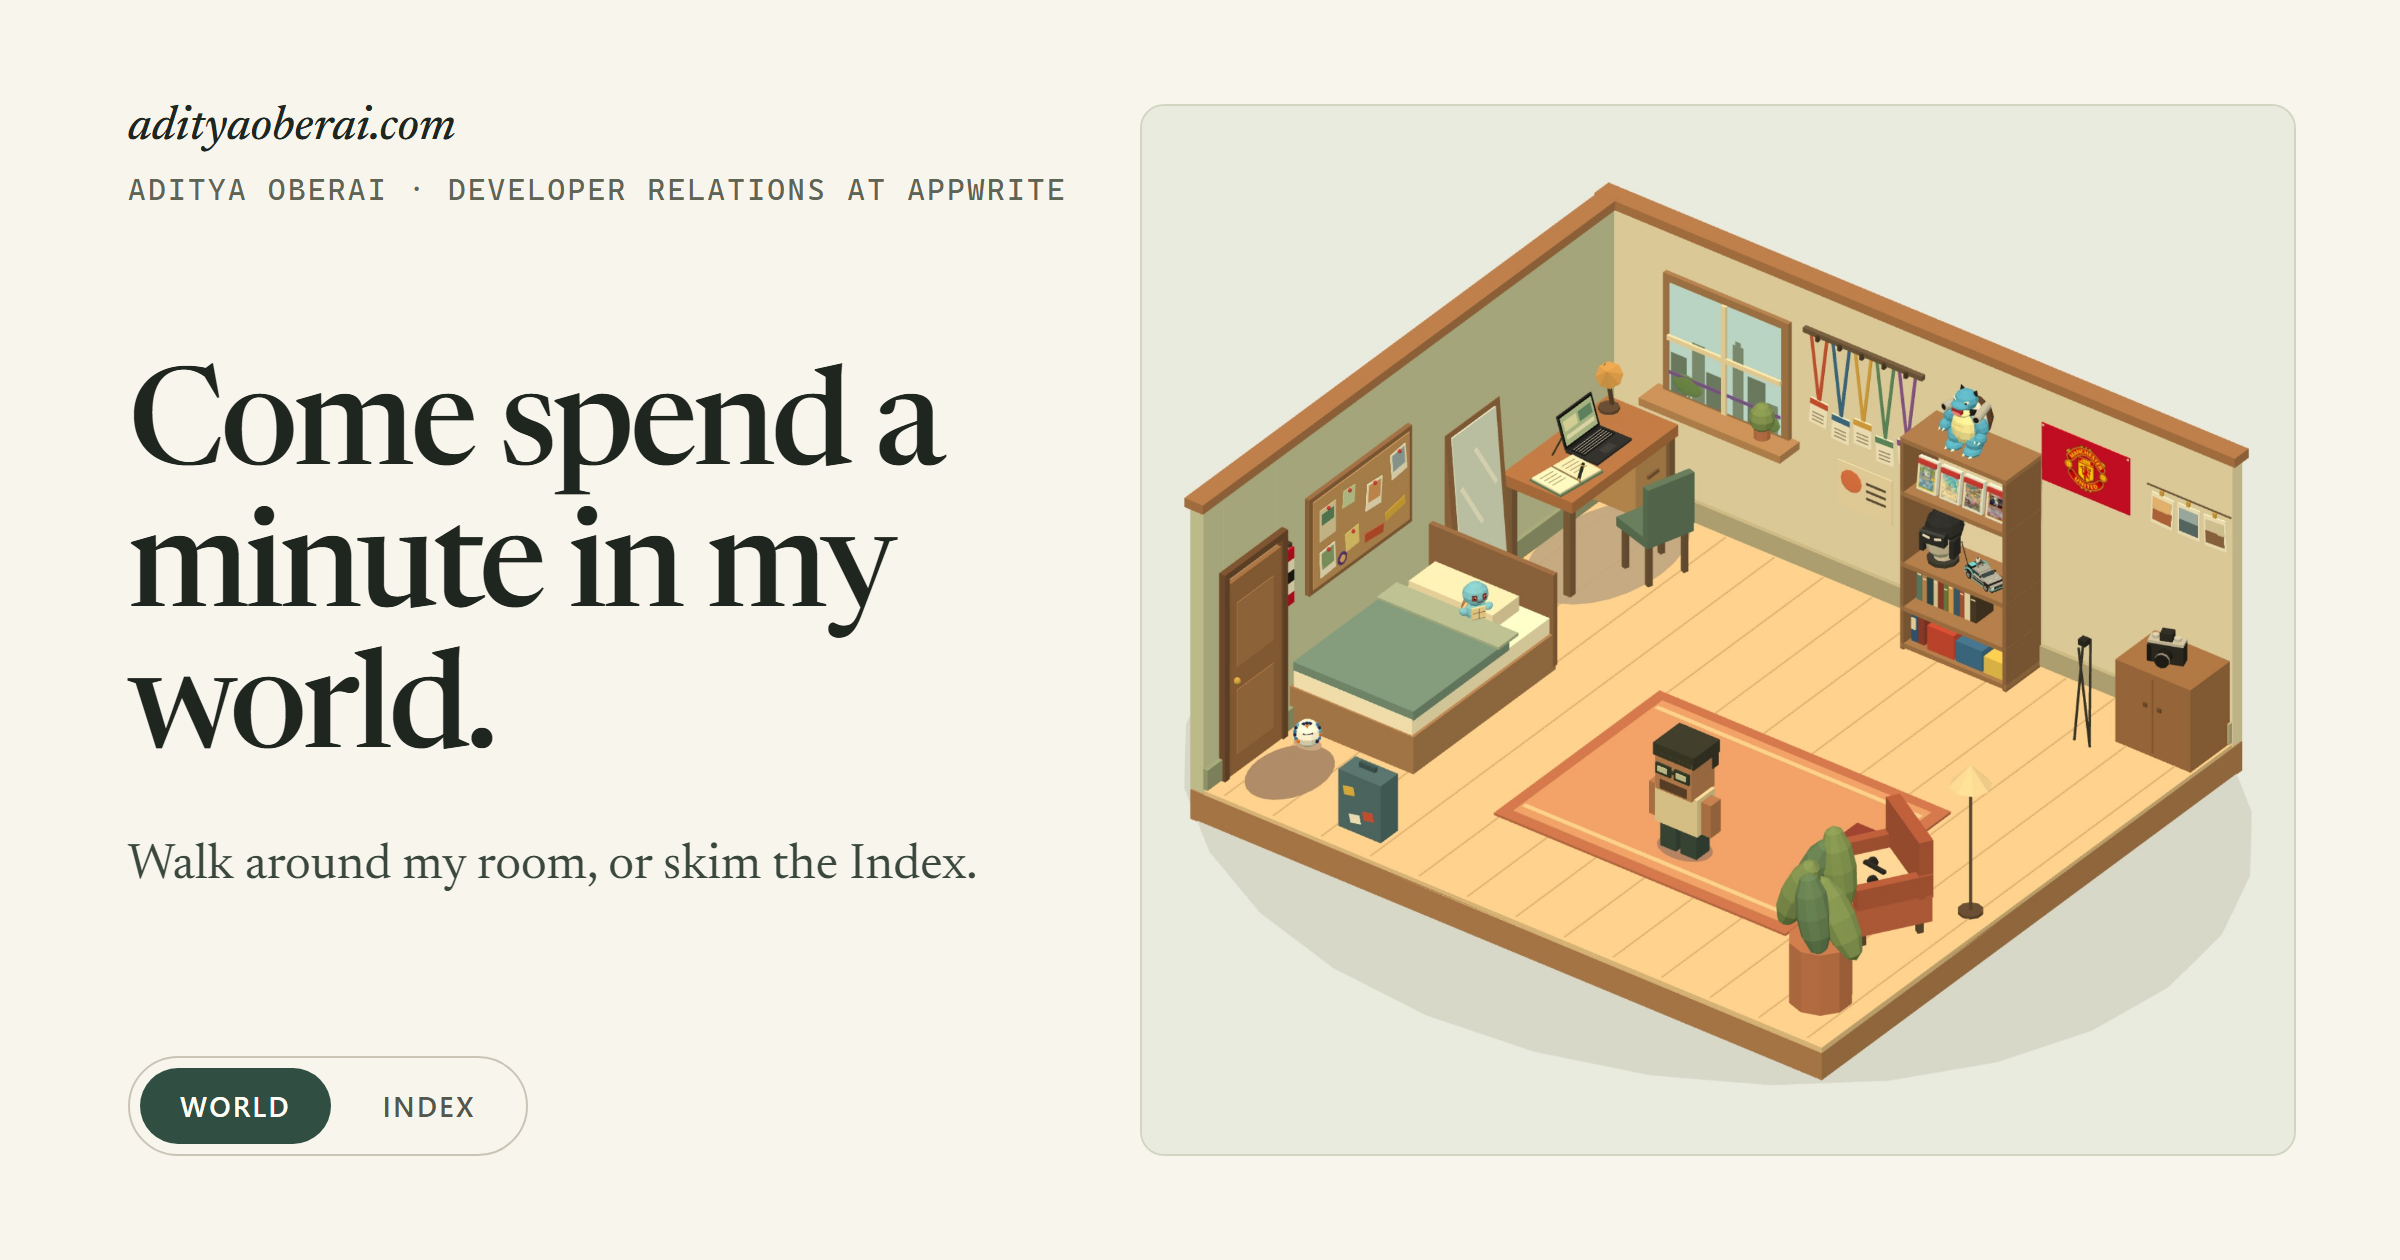
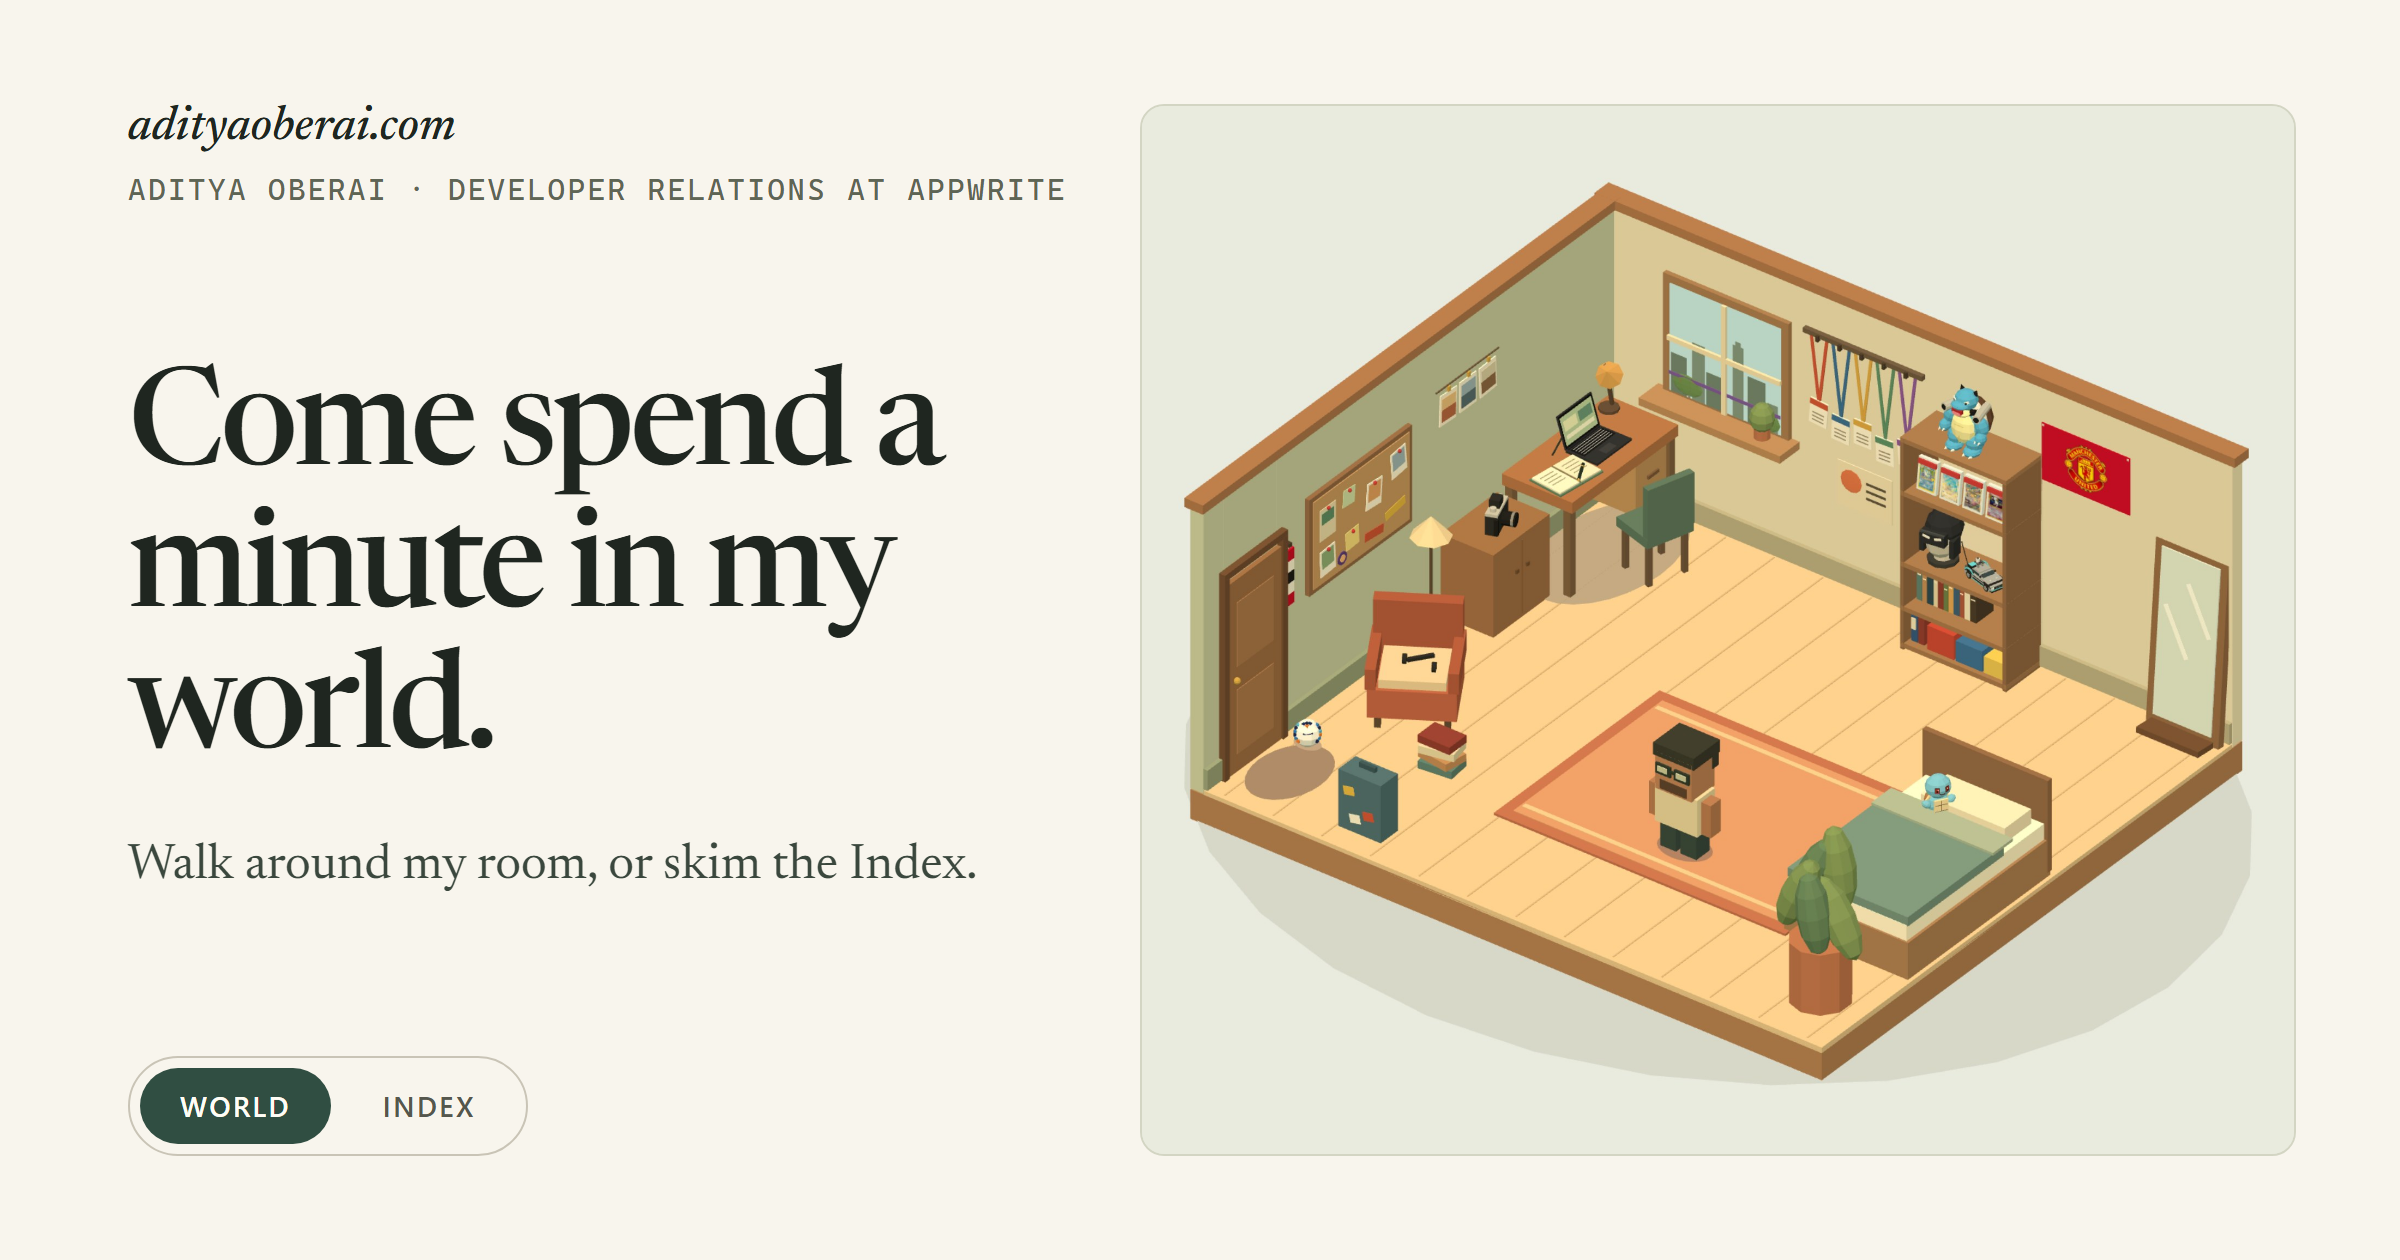
V3: swap the bed and reading corner, the mirror and camera cabinet
The bed now runs along the room's right edge and the reading corner sits
under the corkboard; the camera cabinet and its prints move onto the left
wall beside the desk and the mirror leans in the back-right corner. The
tripod is gone.

Changed region(s): [[0.5312, 0.2786, 0.6562, 0.619], [0.75, 0.5571, 0.875, 0.7738], [0.8438, 0.4024, 0.9375, 0.619]]

diff --git a/src/lib/world/build.ts b/src/lib/world/build.ts
@@ -14,7 +14,7 @@ import {
 	type BufferGeometry
 } from 'three';
 import { mergeGeometries } from 'three/examples/jsm/utils/BufferGeometryUtils.js';
-import { DESK, FLAG, FOOTPRINTS, LAPTOP, SHELF, type Vec3 } from './layout';
+import { BED, CABINET, DESK, FLAG, FOOTPRINTS, LAPTOP, MIRROR, SHELF, type Vec3 } from './layout';
 
 type Shape = 'box' | 'cylinder' | 'sphere' | 'disc' | 'cone' | 'plane';
 
@@ -462,7 +462,15 @@ export function buildDesk(lit: Batch, unlit: Batch) {
 	});
 }
 
+// The photography corner (CABINET in layout.ts). Drawn as it stood against the
+// back wall, centred on (3.05, -2.7), then moved as one piece.
 export function buildPhotography(lit: Batch) {
+	lit.group([CABINET.x, 0, CABINET.z], CABINET.angle, () =>
+		lit.group([-3.05, 0, 2.7], 0, () => photographyCorner(lit))
+	);
+}
+
+function photographyCorner(lit: Batch) {
 	lit.box('#9c704c', [3.05, 0.45, -2.7], [0.85, 0.9, 0.6]);
 	lit.box('#86603f', [3.05, 0.45, -2.395], [0.012, 0.8, 0.01]);
 	for (const x of [2.97, 3.13]) lit.box('#6b4f36', [x, 0.55, -2.39], [0.04, 0.04, 0.02]);
@@ -589,14 +597,16 @@ export function buildCollection(lit: Batch, faces: Batch, cards: number) {
 }
 
 export function buildBedroom(lit: Batch) {
-	lit.box('#8f6a4c', [-2.8, 0.6, -0.23], [1.42, 1, 0.06]);
-	lit.box('#a9805c', [-2.8, 0.25, 0.825], [1.4, 0.4, 2.15]);
-	lit.box('#faf2da', [-2.8, 0.53, 0.84], [1.34, 0.18, 2.08]);
-	lit.box('#749287', [-2.8, 0.66, 1.15], [1.36, 0.1, 1.45]);
-	lit.box('#a7b6a1', [-2.8, 0.72, 0.45], [1.38, 0.03, 0.3]);
-	lit.box('#f0e3c7', [-2.9, 0.7, 0.07], [0.95, 0.16, 0.4]);
-	// Squirtle plush by the pillow.
-	lit.group([-2.62, 0.62, 0.28], Math.PI / 3, () => squirtle(lit), 0.72);
+	// The bed along the right edge of the room (BED in layout.ts).
+	const x = BED.x;
+	lit.box('#8f6a4c', [x, 0.6, -0.23], [1.42, 1, 0.06]);
+	lit.box('#a9805c', [x, 0.25, 0.825], [1.4, 0.4, 2.15]);
+	lit.box('#faf2da', [x, 0.53, 0.84], [1.34, 0.18, 2.08]);
+	lit.box('#749287', [x, 0.66, 1.15], [1.36, 0.1, 1.45]);
+	lit.box('#a7b6a1', [x, 0.72, 0.45], [1.38, 0.03, 0.3]);
+	lit.box('#f0e3c7', [x + 0.1, 0.7, 0.07], [0.95, 0.16, 0.4]);
+	// Squirtle plush by the pillow, facing the room.
+	lit.group([x - 0.18, 0.62, 0.28], Math.PI / 3, () => squirtle(lit), 0.72);
 
 	// Front-right plant.
 	lit.cylinder('#b87554', [3.0, 0.33, 2.55], 0.3, 0.66);
@@ -712,7 +722,8 @@ export function buildLanyards(lit: Batch) {
 }
 
 export function buildMirror(lit: Batch) {
-	lit.group([-3.38, 0, -0.85], [0, 0, 0.08], () => {
+	// Leaning back against the wall (MIRROR in layout.ts); its own +x faces out.
+	lit.group([MIRROR.x, 0, MIRROR.z], [0, MIRROR.angle, 0.08], () => {
 		lit.box('#8f6a4c', [0, 0.97, 0], [0.08, 1.92, 0.82]);
 		lit.box('#d6e3df', [0.045, 0.99, 0], [0.02, 1.76, 0.66]);
 		for (const [y, z] of [
@@ -820,21 +831,6 @@ export function buildDecor(lit: Batch, unlit: Batch, flag: Batch) {
 	lit.cylinder('#5d4a3a', [lamp.x, 0.02, lamp.z], 0.12, 0.03);
 	lit.cylinder('#5d4a3a', [lamp.x, 0.75, lamp.z], 0.015, 1.45);
 	lit.add('cone', '#e9d2a6', [lamp.x, 1.5, lamp.z], [0.2, 0.22, 0.2]);
-
-	// Tripod folded against the cabinet.
-	const legs: [number, number][] = [
-		[-0.06, 0],
-		[0.04, 0.05],
-		[0.03, -0.05]
-	];
-	const tripod = FOOTPRINTS.tripod;
-	for (const [dx, dz] of legs)
-		lit.cylinder('#3a3a38', [tripod.x + dx, 0.55, tripod.z + dz], 0.012, 1.1, [
-			dz * 1.5,
-			0,
-			dx * 1.5
-		]);
-	lit.box('#2b2b2a', [tripod.x, 1.12, tripod.z], [0.08, 0.06, 0.08]);
 
 	// Suitcase with travel stickers, and a football.
 	lit.box('#4f6f7a', [-1.9, 0.36, 2.85], [0.48, 0.62, 0.26]);

diff --git a/src/lib/world/layout.ts b/src/lib/world/layout.ts
@@ -90,19 +90,28 @@ export function onShelf(x: number, z: number): Point {
 	return { x: SHELF.x + c * x + s * z, z: SHELF.z - s * x + c * z };
 }
 
+// The camera cabinet stands against the left wall beside the desk, facing the
+// room, with a strand of prints above it; the mirror leans against the back wall
+// in the right corner. Both are drawn in their own frames (build.ts).
+export const CABINET = { x: -3.2, z: -0.8, angle: Math.PI / 2 };
+export const MIRROR = { x: 3.05, z: -2.88, angle: -Math.PI / 2 };
+
+// The bed runs along the right edge of the room, headboard at the back.
+export const BED = { x: 2.8 };
+
 export const FOOTPRINTS = {
 	desk: { x: DESK.x, z: DESK.z, halfX: DESK.length / 2, halfZ: DESK.depth / 2, angle: DESK.angle },
 	deskChair: { x: -2.4, z: -2.15, halfX: 0.26, halfZ: 0.25, angle: Math.PI / 2 - 0.3 },
-	cabinet: edges(2.6, 3.5, -3, -2.4),
-	tripod: { x: 2.42, z: -2.2, halfX: 0.08, halfZ: 0.08, angle: 0 },
+	cabinet: { x: CABINET.x, z: CABINET.z, halfX: 0.45, halfZ: 0.3, angle: CABINET.angle },
 	shelf: { x: SHELF.x, z: SHELF.z, halfX: 0.275, halfZ: 0.6, angle: SHELF.angle },
-	mirror: edges(-3.5, -3.12, -1.2, -0.5),
-	bed: edges(-3.5, -2.1, -0.25, 1.9),
+	mirror: edges(2.64, 3.46, -3, -2.62),
+	bed: edges(BED.x - 0.7, BED.x + 0.7, -0.25, 1.9),
 	football: { x: -3.2, z: 2.03, halfX: 0.13, halfZ: 0.13, angle: 0 },
 	suitcase: edges(-2.15, -1.65, 2.72, 2.98),
-	armchair: { x: 2.65, z: 1.22, halfX: 0.43, halfZ: 0.38, angle: -0.55 },
-	books: { x: 2.05, z: 0.62, halfX: 0.2, halfZ: 0.16, angle: 0 },
-	floorLamp: { x: 3.25, z: 0.62, halfX: 0.13, halfZ: 0.13, angle: 0 },
+	// The reading corner, under the corkboard where the bed was.
+	armchair: { x: -2.75, z: 1.0, halfX: 0.43, halfZ: 0.38, angle: 0.55 },
+	books: { x: -2.0, z: 1.6, halfX: 0.2, halfZ: 0.16, angle: 0 },
+	floorLamp: { x: -3.1, z: 0.3, halfX: 0.13, halfZ: 0.13, angle: 0 },
 	plant: edges(2.72, 3.28, 2.27, 2.83)
 } satisfies Record<string, Footprint>;
 
@@ -147,9 +156,9 @@ export const STATIONS: StationLayout[] = [
 	},
 	{
 		id: 'camera',
-		approach: { x: 2.95, z: -1.85 },
-		hit: { center: [3.02, 1.25, -2.72], size: [1.05, 2.5, 0.85] },
-		focus: [3.0, 1.2, -2.7],
+		approach: { x: -2.5, z: -0.8 },
+		hit: { center: [-3.2, 1.25, -0.8], size: [0.85, 2.5, 1.05] },
+		focus: [-3.18, 1.2, -0.78],
 		priority: 0
 	},
 	{
@@ -175,9 +184,9 @@ export const STATIONS: StationLayout[] = [
 	},
 	{
 		id: 'mirror',
-		approach: { x: -2.75, z: -0.85 },
-		hit: { center: [-3.3, 1.0, -0.85], size: [0.55, 2.0, 0.95] },
-		focus: [-3.35, 1.1, -0.85],
+		approach: { x: 3.05, z: -2.2 },
+		hit: { center: [3.05, 1.0, -2.85], size: [0.95, 2.0, 0.55] },
+		focus: [3.05, 1.1, -2.9],
 		priority: 0
 	},
 	{
@@ -222,7 +231,7 @@ export interface CuriosityLayout {
 
 // Environmental details: a one-line note, not a navigation destination.
 export const CURIOSITIES: CuriosityLayout[] = [
-	{ id: 'plush', hit: { center: [-2.72, 0.85, 0.15], size: [0.65, 0.6, 0.6] } },
+	{ id: 'plush', hit: { center: [BED.x - 0.08, 0.85, 0.15], size: [0.65, 0.6, 0.6] } },
 	{
 		id: 'cowl',
 		hit: {

diff --git a/WORKLOG.md b/WORKLOG.md
@@ -10,7 +10,7 @@
 
 ## Current state (verified 2026-10-01)
 
-- Branch: `v3-world`, based on `12cbe80`. One commit per phase: Phase 0 `f85cdaf`, Phase 1 `2e6ceee`, Phase 2 `298269e`, Phase 3 `e71d7cc`, Phase 4 `9b8afb4`, Phase 5 `4b772bd`, full-page World `1b0e26b`, focus/size/E `2db0f96` + `9797ce7`, configurable room content `b8ed4c3`, solid furniture and the open doorway `99f5277`, rename to `WORKLOG.md` `6e97548`, favourite cards, Squirtle plush, and new Blastoise `75dfc72`, cowl, DeLorean, flag, and shelf rows `39017a7`, then the desk/shelf swap and the laptop (this state). `main` is untouched. `origin/v3-world` was at `b8ed4c3` before this change.
+- Branch: `v3-world`, based on `12cbe80`. One commit per phase: Phase 0 `f85cdaf`, Phase 1 `2e6ceee`, Phase 2 `298269e`, Phase 3 `e71d7cc`, Phase 4 `9b8afb4`, Phase 5 `4b772bd`, full-page World `1b0e26b`, focus/size/E `2db0f96` + `9797ce7`, configurable room content `b8ed4c3`, solid furniture and the open doorway `99f5277`, rename to `WORKLOG.md` `6e97548`, favourite cards, Squirtle plush, and new Blastoise `75dfc72`, cowl, DeLorean, flag, and shelf rows `39017a7`, desk/shelf swap and laptop `1418900`, then bed/armchair and mirror/cabinet swaps (this state). `main` is untouched. `origin/v3-world` was at `b8ed4c3` before this change.
 - Stack: SvelteKit 2.70, Svelte 5.57, TypeScript, Tailwind 4, **adapter-node 5.5.7** (replaced adapter-static), Three.js 0.186.1.
 - `/world` has all nine stations from the brief (desk & computer, notebook & fountain pen, Fujifilm X-T30 II, Pokémon shelf, corkboard, conference wall, mirror, window, door) and six curiosities (Squirtle plush, Batman cowl, LEGO DeLorean, Manchester United flag, suitcase, football), plus decoration (reading corner, tripod, prints, lamp, a Blastoise figure on top of the shelf, books). The shelf holds, top to bottom: Blastoise, the four favourite cards, the cowl and the DeLorean, books, binders and sealed boxes. `/collection` shows the cards too. The window follows Bengaluru time. `/now` exists. `/index` is SSR and never loads the scene.
 - `/` renders World or Index on the server from the `mode` cookie (default World). `/world` and `/index` set it.
@@ -387,3 +387,9 @@
 - `src/lib/world/scene.ts`: the waking screen is now the laptop's display, placed through the same desk → laptop → lid transforms.
 - Tests: `tests/movement.test.mjs` no longer assumes which two stations have furniture between them; it checks that every blocked straight line is routed around, and that the room has at least one. `tests/browser/world.spec.ts`: the walk-up test clicks the floor in front of the shelf's new spot. 20 unit tests, 24 e2e.
 - Regenerated `static/room-still.jpg`, `og/room.jpg`, `static/og.png`. Verified in screenshots and by visiting every moved station (each stops at its approach and opens).
+
+### 2026-10-01 — Bed and armchair swapped, mirror and camera cabinet swapped, tripod removed (user requests)
+
+- `src/lib/world/layout.ts`: new `CABINET` (left wall beside the desk, facing the room), `MIRROR` (back wall, right corner, facing the room), and `BED` (right edge of the room, headboard at the back). Footprints follow: cabinet turned with it, mirror `edges(2.64, 3.46, -3, -2.62)`, bed `x 2.1 to 3.5`; the reading corner moved under the corkboard where the bed was (armchair `(-2.75, 1.0)` turned 0.55 to face the room, floor lamp `(-3.1, 0.3)` clear of the corkboard, book stack `(-2.0, 1.6)` clear of the corkboard's approach and the walk to the door). Tripod footprint removed. Stations: camera approach `(-2.5, -0.8)` with its hit box and focus on the cabinet; mirror approach `(3.05, -2.2)`. The plush's hit box follows the bed.
+- `src/lib/world/build.ts`: `buildPhotography()` draws the old corner (cabinet, Fujifilm, strand of prints) as before and moves it as one piece onto the left wall, so the prints now hang above the cabinet there. `buildMirror()` uses `MIRROR` (leans back against the back wall). The bed and Squirtle use `BED.x`. The tripod is gone.
+- Verified in screenshots and by visiting the camera, mirror, corkboard, door, and notebook stations (each stops at its approach and opens). Regenerated `static/room-still.jpg`, `og/room.jpg`, `static/og.png`. Validation: `npm run check` 0/0, `npm test` 20/20, `npm run test:e2e` 24/24, `npm run lint` exit 0.
